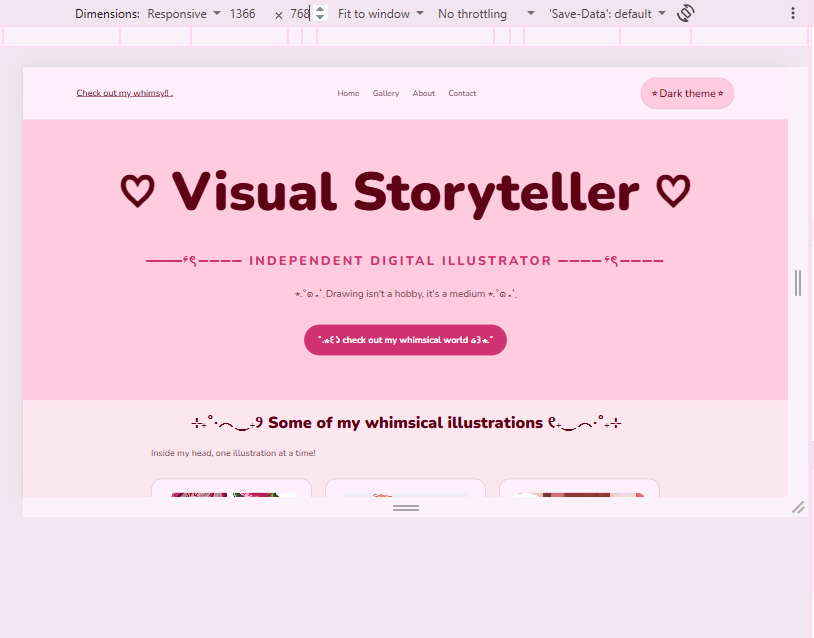
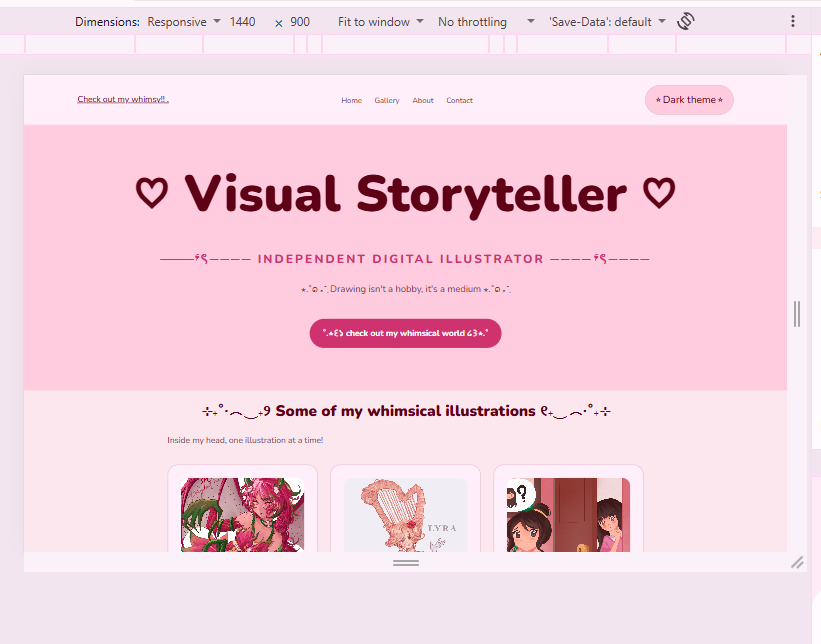
Update README and add live testing screenshots

diff --git a/README.md b/README.md
@@ -16,12 +16,26 @@ An aesthetically adorable digital art portfolio that contains my artworks and ar
 - CSS3
 - JavaScript
 - Local Storage
+- InfinityFree
 
 ## Setup
-1. Download or clone this repository.
-2. Open the project folder.
-3. Open `index.html` in a web browser.
-4. For the best local testing experience, use the Live Server extension in Visual Studio Code.
+
+(Accessing the local website)
+1. Open the project's GitHub repository: https://github.com/Jeanine-131/final-practical-calara 
+2. Click the Code button.
+3. Select "Download ZIP."
+4. Extract the downloaded ZIP file.
+5. Open Visual Studio Code.
+6. Select File → Open Folder.
+7. Choose the extracted project folder.
+
+
+(Accessing the live website)
+1. Open a web browser such as Google Chrome.
+2. Visit the deployed website using the InfinityFree URL under ## Live Demo URL. 
+3. Wait for the homepage to load.
+3. Browse the portfolio and interact with its features.
+
 
 ## Live Demo URL
-[Paste your deployed website URL here]
+https://finals-portfolio.2kool4u.net/
